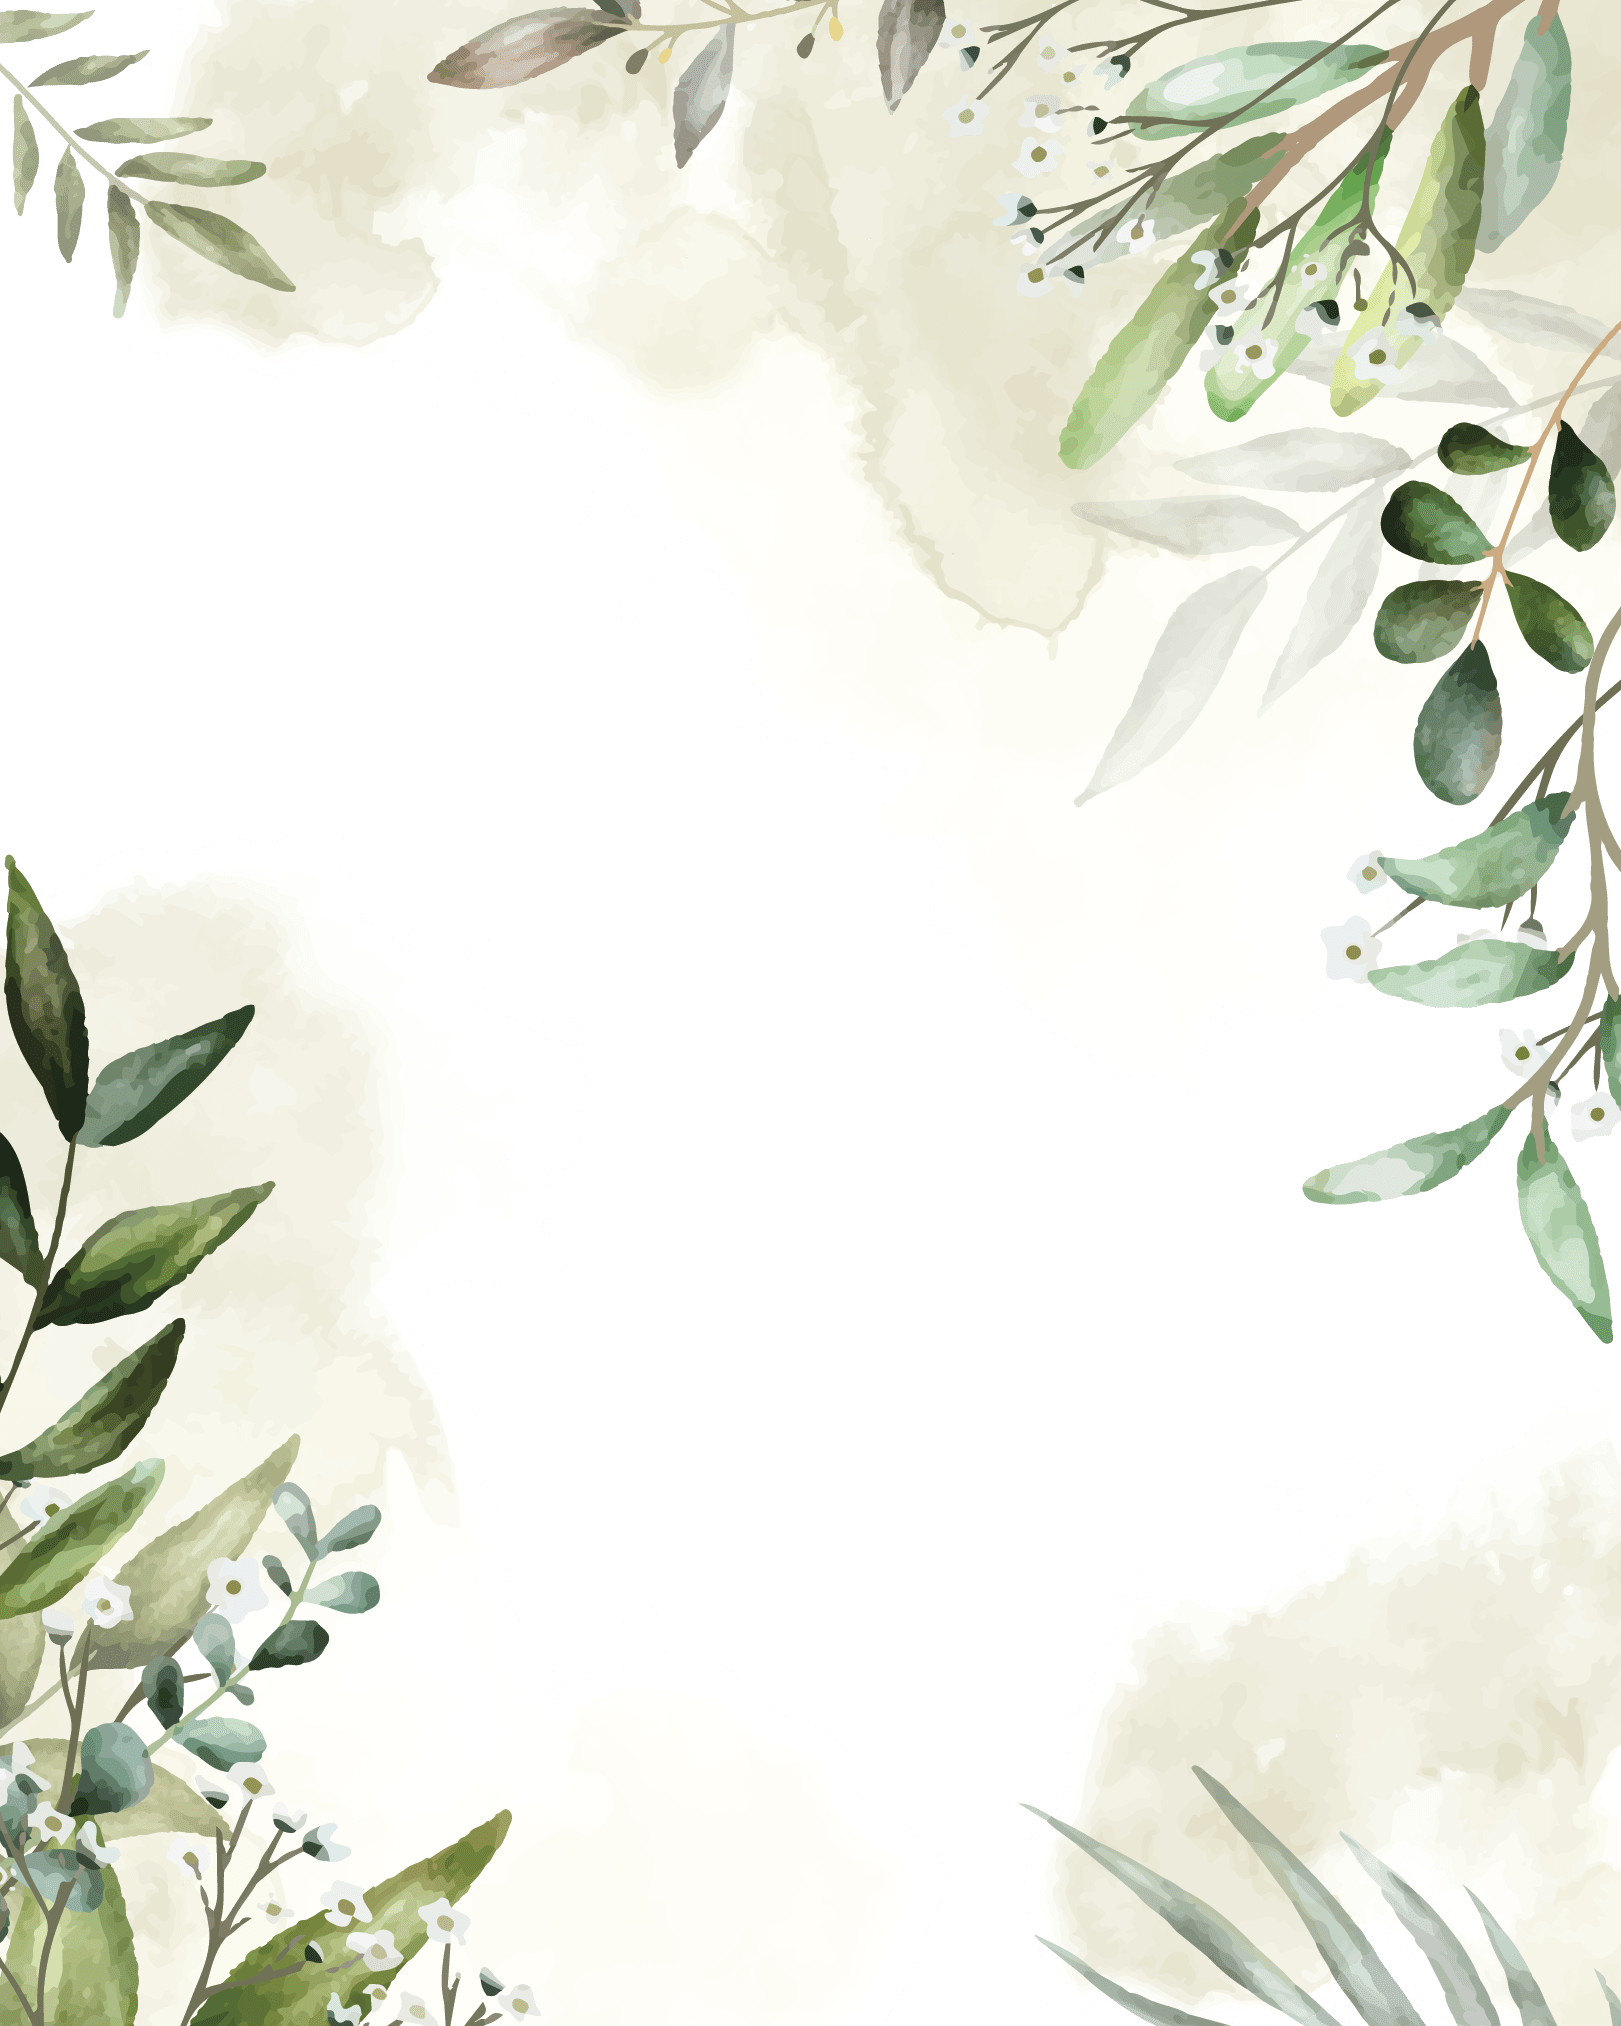
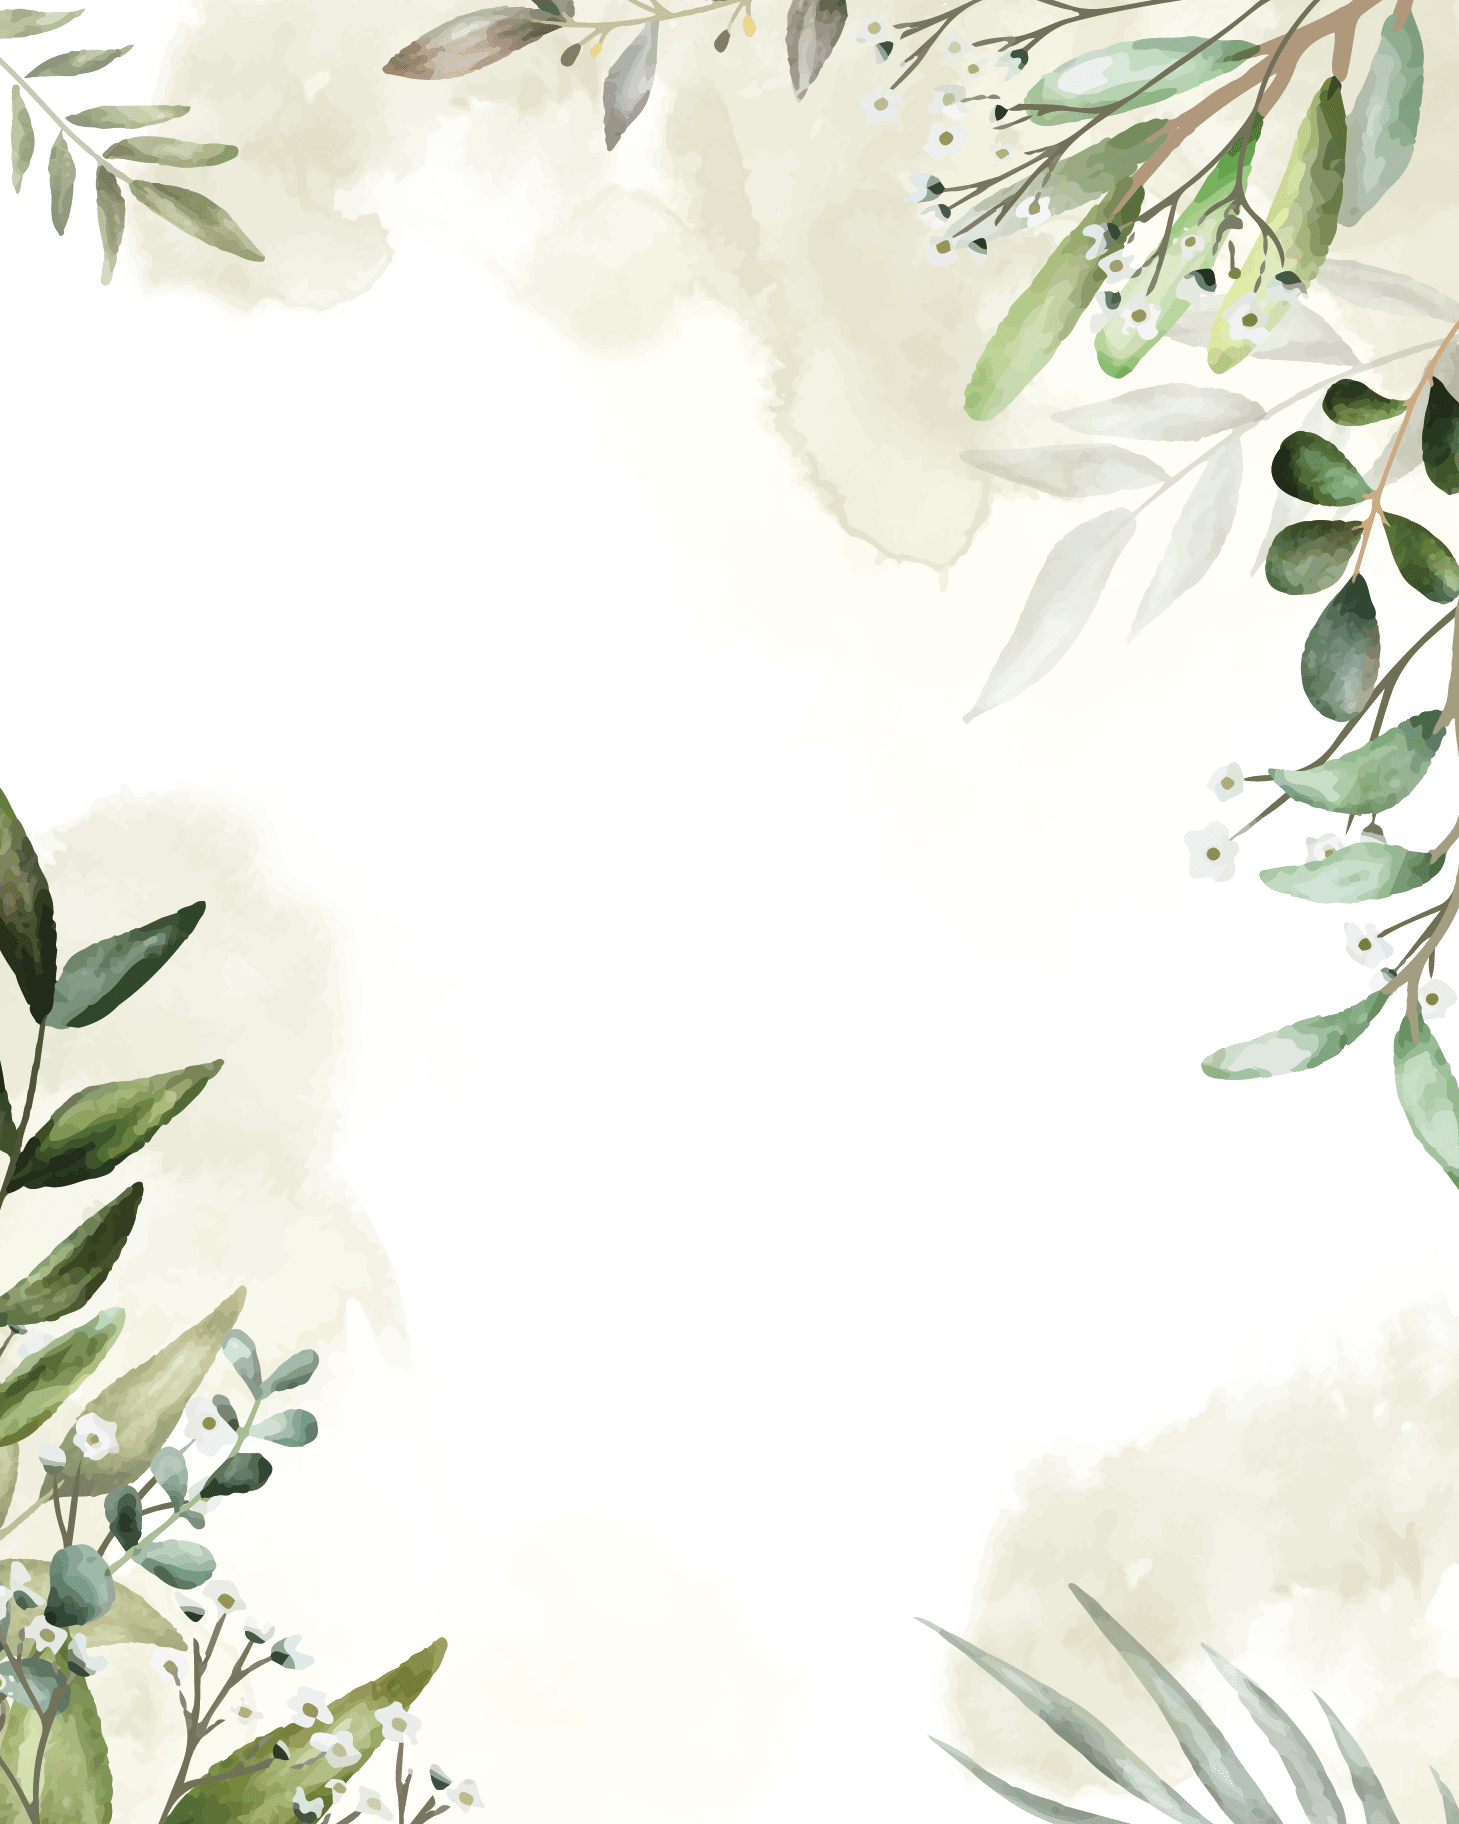
changed background image

diff --git a/styles.css b/styles.css
@@ -77,7 +77,7 @@ h1 {
   font-size: 8px;
 }
 
-@media (max-width: 767px) {
+@media (max-width: 540px) {
   .content {
     margin-top: 30px;
     margin-left: 15px;
@@ -90,9 +90,8 @@ h1 {
   }
 
   .container {
-    background-size: 420px 600px;
     background-position: center;
-    height: 570px;
+    max-width: 100%;
   }
 }
 
